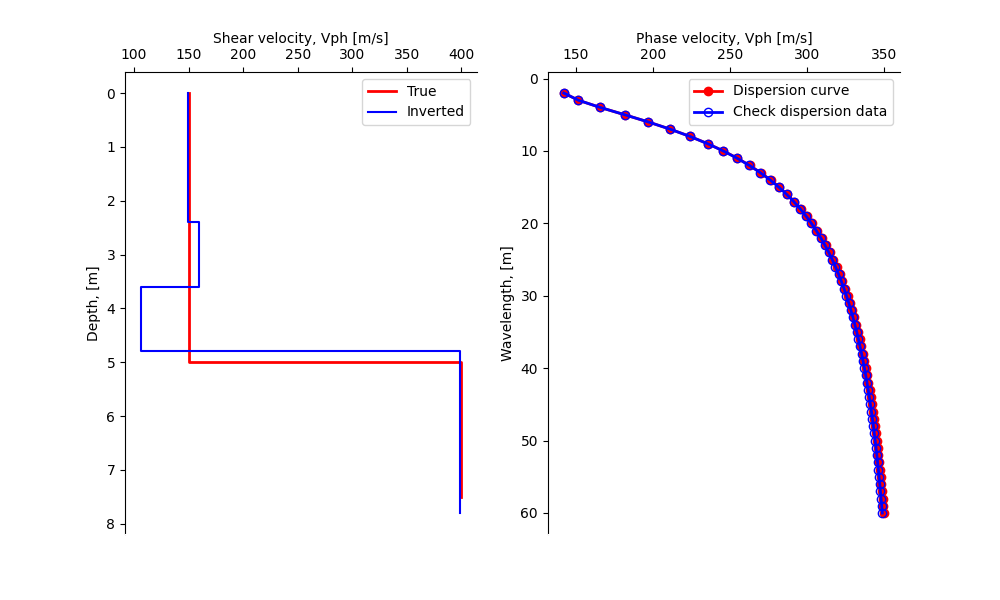
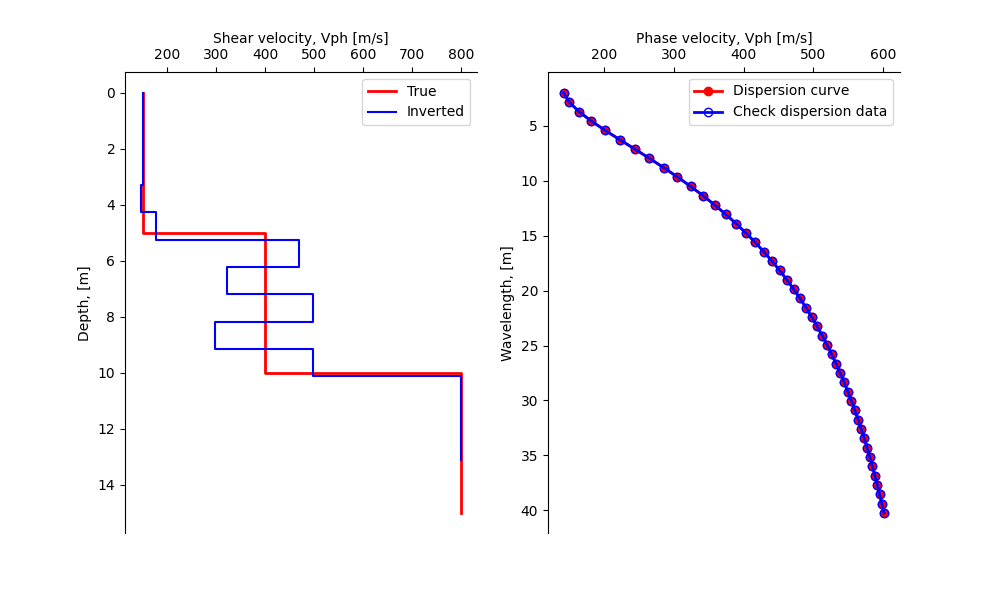
increase the spatial resolution by reducing the wavelength to 0.85, the inverted results face with the instability, but not to strong

diff --git a/data.py b/data.py
@@ -5,15 +5,15 @@ import matplotlib.pyplot as plt
 from pandas import *
 
 # shear wave velocity
-Swave = [150, 400]
+Swave = [150, 400, 800]
 # thickness
-thickness = [5 ,np.inf]
+thickness = [5 ,10, np.inf]
 depth = np.append(0,thickness)
 nLayer = len(thickness)
 # mininum, maximum and stepping wavelength
 wl_min = 2
-wl_max = 60
-wl_step = 1.0
+wl_max = 40
+wl_step = 0.85
 wavelen = np.arange(wl_min,wl_max+wl_step,wl_step)
 # Poisson's ratio
 nuy = 0.3
@@ -21,6 +21,6 @@ nuy = 0.3
 spr = 0.93
 # depth to
 # wavelength ratio
-alpha = 1.2
+alpha = 1.15
 # number of layer inverted
-n_inverted_layer = 4 #len(wavelen)
+n_inverted_layer = 10 #len(wavelen)

diff --git a/forward2.py b/forward2.py
@@ -66,7 +66,6 @@ class forward_engine(object):
         R_wave_velo_forward = spr * S_wave_velo_forward
         return S_wave_velo_forward,R_wave_velo_forward
 
-
 class backward_engine(forward_engine):
 
     def __init__(self,number_invert_layers):
@@ -134,8 +133,6 @@ print()
 print('Phase velocity in forward:\n',R_wave_velo_forward[:,np.newaxis])
 backward_model = backward_engine(n_inverted_layer)
 #############################################################
-
-
 
 # inversion results
 thickness_for_inversion = backward_model.inversion_data()
